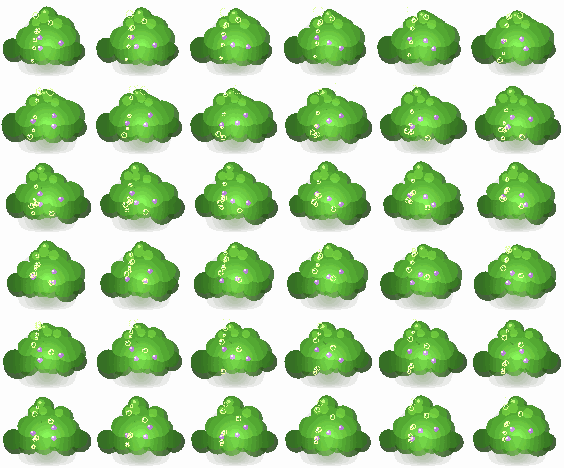
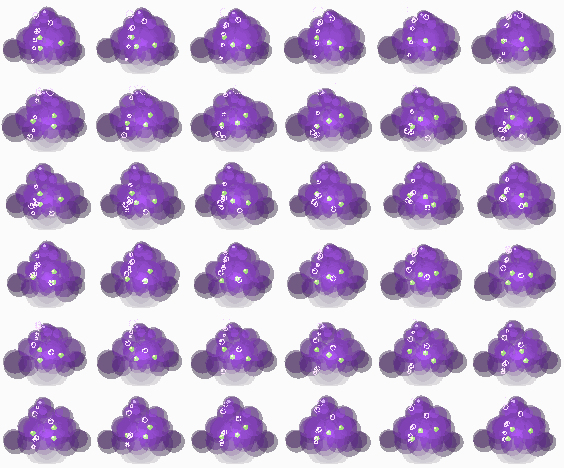
독가스: 작고 반투명한 보라색으로(초록 독 방울), PXS에 불투명도 옵션 op 추가
Claude-Session: https://claude.ai/code/session_01WdwmgQ1X9No8TXxhVpqQwz

diff --git a/js/game.js b/js/game.js
@@ -591,7 +591,7 @@ function step(dt){const D=DIFF[diff];S.t+=dt;S.inc+=dt;
      if(!nb)break;if(p.id===view)beamU(cur,nb,b.col);set.push(nb);cur=nb}hits=set}
    if(p.id===view){t.kick=1;sfx('shoot',{tower:b.id});artFx('shoot',{tower:b.id,x:cx,y:BH-cy,tx:tg.x,ty:BH-tg.y,air:tg.bp.t==='A',col:b.col,b})}
    const lvm=1+(t.lv-1)*.5;if(crit>1&&p.id===view)artFx('crit',{u:tg});
-   if(b.poison&&(b.splash||b.self)){p.clouds=p.clouds||[];if(p.clouds.length>=14)p.clouds.shift();const cx2=b.self?cx:tg.x,cy2=b.self?cy:tg.y,cr=b.self?Math.min(t.r,2.2):b.splash;p.clouds.push({x:cx2,y:cy2,r:cr,life:BAL.cl,tk:.5,pv:b.poison*BAL.pk*lvm,src:b.id});if(p.id===view&&!S.sim)PXS.play('nature/toxic-gas',cx2,BH-cy2,0,{loop:true,life:BAL.cl,fit:cr*2});if(p.id===view)artFx('smoke',{x:cx2,y:BH-cy2,r:cr,col:b.col})}
+   if(b.poison&&(b.splash||b.self)){p.clouds=p.clouds||[];if(p.clouds.length>=14)p.clouds.shift();const cx2=b.self?cx:tg.x,cy2=b.self?cy:tg.y,cr=b.self?Math.min(t.r,2.2):b.splash;p.clouds.push({x:cx2,y:cy2,r:cr,life:BAL.cl,tk:.5,pv:b.poison*BAL.pk*lvm,src:b.id});if(p.id===view&&!S.sim)PXS.play('nature/toxic-gas',cx2,BH-cy2,0,{loop:true,life:BAL.cl,fit:cr*1.35,op:.5});if(p.id===view)artFx('smoke',{x:cx2,y:BH-cy2,r:cr,col:b.col})}
    hits.forEach((h,i)=>{const dd=(t.d*(b.chain&&i?.75:1)*(h===tg?crit:1)+(b.heavy&&h===tg?h.bp.hp*BAL.hmx:0))*(h.bp.swarm&&b.heavy?.5:1);const ef=dmgU(h,dd);if(S.st)S.st.td[b.id]=(S.st.td[b.id]||0)+ef;if(p.id===view&&!S.sim)dmgPop(h,ef,h===tg&&crit>1);
     if(b.poison&&!im(h,'poison'))addPois(h,b.poison*BAL.pk*lvm,b.id);
     if(b.burn&&!im(h,'burn')){h.bn=BAL.bdur;const bv=b.burn*BAL.bk*lvm;if(bv>=(h.bv||0)){h.bv=bv;h.bsrc=b.id}}
@@ -2924,15 +2924,15 @@ function frame(now){requestAnimationFrame(frame);const dt=Math.min((now-last)/10
 requestAnimationFrame(frame);
 
 // ---------- 🎞 pixelfx 스프라이트 시트 재생기 (효과 출처: github.com/patch-gg/pixelfx, MIT — assets/pfx/LICENSE-pixelfx.txt) ----------
-// 효과 추가: python3 tools/pfx/add.py <pixelfx 폴더> <id...> → js/pfx_sheets.js 목록 갱신. 재생: PXS.play('holy/feather-burst', x, BH-y, z, {sc, delay, add})
+// 효과 추가: python3 tools/pfx/add.py <pixelfx 폴더> <id...> → js/pfx_sheets.js 목록 갱신. 재생: PXS.play(id, x, BH-y, z, {fit:가로 칸, sc, delay, add:빛 섞기, op:불투명도, loop, life})
 const PXS=(()=>{const MAT={},act=[],M=()=>typeof PFXS_META!=='undefined'?PFXS_META:{};
- function mat(id,add){const k=id+(add?'+':'');if(MAT[k])return MAT[k];const m=M()[id];const tx=new THREE.TextureLoader().load(m.f);tx.magFilter=tx.minFilter=THREE.NearestFilter;tx.generateMipmaps=false;
-  return MAT[k]=new THREE.MeshBasicMaterial({map:tx,transparent:true,depthWrite:false,depthTest:false,side:THREE.DoubleSide,blending:add?THREE.AdditiveBlending:THREE.NormalBlending})}
+ function mat(id,add,op){op=op==null?1:op;const k=id+(add?'+':'')+op;if(MAT[k])return MAT[k];const m=M()[id];const tx=new THREE.TextureLoader().load(m.f);tx.magFilter=tx.minFilter=THREE.NearestFilter;tx.generateMipmaps=false;
+  return MAT[k]=new THREE.MeshBasicMaterial({map:tx,transparent:true,depthWrite:false,depthTest:false,side:THREE.DoubleSide,blending:add?THREE.AdditiveBlending:THREE.NormalBlending,opacity:op})}
  function setUV(a){const m=a.m,f=Math.min(m.n-1,a.f),c=f%m.cols,r=(f/m.cols)|0,u0=c/m.cols,u1=(c+1)/m.cols,v1=1-r/m.rows,v0=1-(r+1)/m.rows,uv=a.g.attributes.uv;
   uv.setXY(0,u0,v1);uv.setXY(1,u1,v1);uv.setXY(2,u0,v0);uv.setXY(3,u1,v0);uv.needsUpdate=true}
  function play(id,x,y,z,o){if(typeof Sc==='undefined'||!Sc||(S&&S.sim))return null;const m=M()[id];if(!m)return null;o=o||{};
   const k=o.fit?o.fit/m.fw:(o.sc||1)/64,w=m.fw*k,h=m.fh*k,g=new THREE.PlaneGeometry(w,h);g.translate(-(m.px/m.fw-.5)*w,(m.py/m.fh-.5)*h,0);
-  const me=new THREE.Mesh(g,mat(id,o.add));me.position.set(x,y,z||0);me.renderOrder=42;me.visible=!(o.delay>0);Sc.add(me);
+  const me=new THREE.Mesh(g,mat(id,o.add,o.op));me.position.set(x,y,z||0);me.renderOrder=42;me.visible=!(o.delay>0);Sc.add(me);
   const a={me,g,m,t:-(o.delay||0),f:0,loop:o.loop??m.loop,life:o.life||0};setUV(a);act.push(a);return a}
  function stop(a){if(!a)return;a.dead=1}
  function update(dt){for(let i=act.length-1;i>=0;i--){const a=act[i];a.t+=dt;

diff --git a/tools/pfx/custom/nature/toxic-gas.js b/tools/pfx/custom/nature/toxic-gas.js
@@ -3,7 +3,7 @@ import { Lights, Rng, fit, TAU, WHITE } from "../../core/index.js";
 
 export const meta = {
   name: "Toxic gas",
-  desc: "A round, lumpy ball of toxic green gas sitting on the ground: soft puffs that breathe in and out and slowly churn round, little bubbles rising through it and popping, a sickly glow underneath.",
+  desc: "A round, lumpy, see-through ball of purple toxic gas sitting on the ground: soft puffs that breathe in and out and slowly churn round, little bubbles rising through it and popping, a sickly glow underneath.",
   tags: ["nature", "poison", "gas", "cloud", "toxic", "loop"],
   size: [120, 100],
   origin: [60, 88],
@@ -12,8 +12,8 @@ export const meta = {
   fps: 30,
   bg: "ground",
   options: {
-    palette: ["#16260c", "#24461a", "#2f6a1e", "#45922a", "#6cbf38", "#a2e45a", "#d6ff8e"],
-    accent: ["#5a2a6e", "#9b3fd0", "#e2b0ff"],
+    palette: ["#1a0b26", "#2e1446", "#4a1f6e", "#6a2f9a", "#8c47c4", "#b578e6", "#e8ccff"],
+    accent: ["#2f6a1e", "#7cd63a", "#d6ff8e"],
     seed: 7,
   },
 };
@@ -37,10 +37,10 @@ export function create(o) {
   };
   const drawBall = (p, b, layer) => {
     const [x, y, r] = pos(b), hy = (y - CY) / 20, lo = hy > 0.25;
-    if (layer === "shade") p.disc(x + r * 0.14, y + r * 0.18, r, lo ? C[1] : C[2], 0.85);
-    else if (layer === "body") p.disc(x - r * 0.05, y - r * 0.08, r * 0.86, lo ? C[2] : C[3], 0.92);
+    if (layer === "shade") p.disc(x + r * 0.14, y + r * 0.18, r, lo ? C[1] : C[2], 0.42);
+    else if (layer === "body") p.disc(x - r * 0.05, y - r * 0.08, r * 0.86, lo ? C[2] : C[3], 0.5);
     else if (hy < -0.35) {
-      p.disc(x - r * 0.24, y - r * 0.3, r * 0.4, C[4], 0.85);
+      p.disc(x - r * 0.24, y - r * 0.3, r * 0.4, C[4], 0.55);
       if (hy < -0.8) p.disc(x - r * 0.3, y - r * 0.38, r * 0.16, C[6], 0.8);
     }
   };
@@ -48,12 +48,12 @@ export function create(o) {
   return {
     update(dt) { t += dt; lights.update(dt); },
     drawBack(p) {
-      p.glow(0, -2, 40, C[4], 0.35);
-      p.glow(0, CY + 6, 30, A[1], 0.12);
+      p.glow(0, -2, 40, C[4], 0.22);
+      p.glow(0, CY + 6, 30, C[5], 0.1);
     },
     draw(p) {
       for (const layer of ["shade", "body", "cap"]) for (const b of balls) drawBall(p, b, layer);
-      // 보라 얼룩이 몇 개 떠다니며 독 느낌
+      // 초록 독 방울이 몇 개 떠다니며 독 느낌
       for (let i = 0; i < 3; i++) {
         const a = (TAU * t) / D + i * 2.1;
         p.disc(Math.cos(a) * 14, CY + 6 + Math.sin(a * 2) * 6, 2.6, A[1], 0.9);p.disc(Math.cos(a) * 14 - 0.8, CY + 5 + Math.sin(a * 2) * 6, 1.1, A[2], 0.9);

diff --git a/CLAUDE.md b/CLAUDE.md
@@ -53,7 +53,7 @@
 - `S.sim`일 때는 사운드·이펙트를 건너뛴다. 통계 훅은 `S.st`가 있을 때만 동작.
 - 🦴 병아리 영웅은 Blender로 뼈대·애니메이션(idle·walk·flap)을 넣은 `assets/models/chick_anim.glb`(사용자 컴퓨터의 Claude Code+Blender 5.x에서 제작). 복제는 `skinClone`(그냥 clone하면 뼈 공유), 크기는 `skinBox`, 재생은 `heroClip`(걸으면 walk·서 있으면 idle·5~9초마다 flap). ⚠ 뼈대 GLB는 위치·가중치를 quantize하지 말 것(크기 계산이 깨짐) — `--pattern "{NORMAL,TEXCOORD_0}"`만. 클라우드 세션에서 컴퓨터 폴더 연결은 이 계정에서 아직 안 됨(2026-11-10).
 - AI 3D 영웅 모델: Hyper3D Rodin으로 만든 GLB를 gltf-transform+meshoptimizer로 1.2만 면·512 JPEG·quantize로 줄여 `assets/models/`에. `HGLB`(키·모자/안경 위치)·`hglbGet`·`heroMeshAI`, 로비·꾸미기·광장 영웅에만(게임판은 기존 모델). 약관 메모 `art_src/models/README.md`(Rodin은 상업 이용 제한 없음, ChatAvatar는 개인용만).
-- 🎞 pixelfx 시트(`PXS`, 2026-11-11): Claude Code 플러그인 `pixelfx@pixelfx`(MIT) 설치함. `tools/pfx/add.py`로 효과를 15fps·256색 시트로 가져와 `assets/pfx/`·`js/pfx_sheets.js`(index.html에서 game.js 앞에 로드), `PXS.play(id,x,BH-y,z,{sc,delay,add,loop})`. 사용법 `tools/pfx/README.md`. `fit`=가로 몇 칸 크기, `PXS.some(id,새들,n,o)`·`PXS.towers(id,p,n,o)`·`PXS.has(id)`. 색 바꾸기는 add.py에 `id@{"palette":[...]}`. 붙인 곳(사용자 선택 2026-11-11): 시조새 착지=impacts/ground-slam · 화염 폭풍=fire/flame-pillar(새 8마리 위) · 폭풍의 눈=nature/tornado(타워 4개 위 3초) · 빙결 순간(0.15초 간격)·절대영도 풀릴 때=ice/ice-shatter · 광역 독구름 `p.clouds`=nature/toxic-gas(사용자 요청 '둥근 가스'로 직접 만든 효과, 원본 `tools/pfx/custom/nature/toxic-gas.js`) · 플라즈마 낙뢰=lightning/lightning-strike(없으면 옛 `PFX.strike`). 6개 합 564KB.
+- 🎞 pixelfx 시트(`PXS`, 2026-11-11): Claude Code 플러그인 `pixelfx@pixelfx`(MIT) 설치함. `tools/pfx/add.py`로 효과를 15fps·256색 시트로 가져와 `assets/pfx/`·`js/pfx_sheets.js`(index.html에서 game.js 앞에 로드), `PXS.play(id,x,BH-y,z,{sc,delay,add,loop})`. 사용법 `tools/pfx/README.md`. `fit`=가로 몇 칸 크기, `PXS.some(id,새들,n,o)`·`PXS.towers(id,p,n,o)`·`PXS.has(id)`. 색 바꾸기는 add.py에 `id@{"palette":[...]}`. 붙인 곳(사용자 선택 2026-11-11): 시조새 착지=impacts/ground-slam · 화염 폭풍=fire/flame-pillar(새 8마리 위) · 폭풍의 눈=nature/tornado(타워 4개 위 3초) · 빙결 순간(0.15초 간격)·절대영도 풀릴 때=ice/ice-shatter · 광역 독구름 `p.clouds`=nature/toxic-gas(사용자 요청 '둥근·작은·반투명 보라 가스'로 직접 만든 효과, 크기 fit=반경×1.35, 불투명도 op:.5(시트만으론 공이 겹쳐 불투명해 보여서 PXS 재질 투명도로), 원본 `tools/pfx/custom/nature/toxic-gas.js`) · 플라즈마 낙뢰=lightning/lightning-strike(없으면 옛 `PFX.strike`). 6개 합 564KB.
 - 픽셀 이펙트 `PFX`(game.js 끝, pixelfx 방식을 참고해 직접 구현, 외부 코드 실행·복사 없음): 작은 캔버스에 점을 찍어 NearestFilter 스프라이트로 띄움. `PFX.strike(x,y,z,delay)`=플라즈마 낙뢰 시제품, `sync3`에서 `PFX.update(dt)`. 다른 조합 스킬은 아직 기존 파티클(`A.skill`).
 - 💬 말하는 새(도도·앵무, `talk`): 끝까지 가는 동안 진행 25·50·75%에서 한 마디씩 3번(1.6초), 화면 동시 최대 3개(`sync3.tA`). 타조는 말 안 함(피루엣만).
 - 🗞 뉴스새 마스코트 'AI'(NPC, 조류 인플루언서): **드론 메카 병아리**. 정식 3D `assets/models/ai_mascot.glb`(Hyper3D Rodin, 341면·52KB, 원본·시안 `art_src/mascot/`) — `aiMascotGet`(게임 시작 때 미리 불러옴)·`aiMascotMesh`(사이렌 빛 + 프로펠러 4곳 회전 잔상 `blurTex`), 못 불러오면 코드 모델 `mechaChickMesh`. `newsBird(txt)`·`newsUpd`(sync3)·`bannerTex`('AI 속보 · 짹짹 뉴스'). 카메라 쪽으로 숙여(rotation.x -1.05) 얼굴을 보이며 현수막을 끌고 판을 가로지름. 6분30초·8분30초 '30초 뒤 피해 N배!' 예고 + 7·9분 '돌파'.
